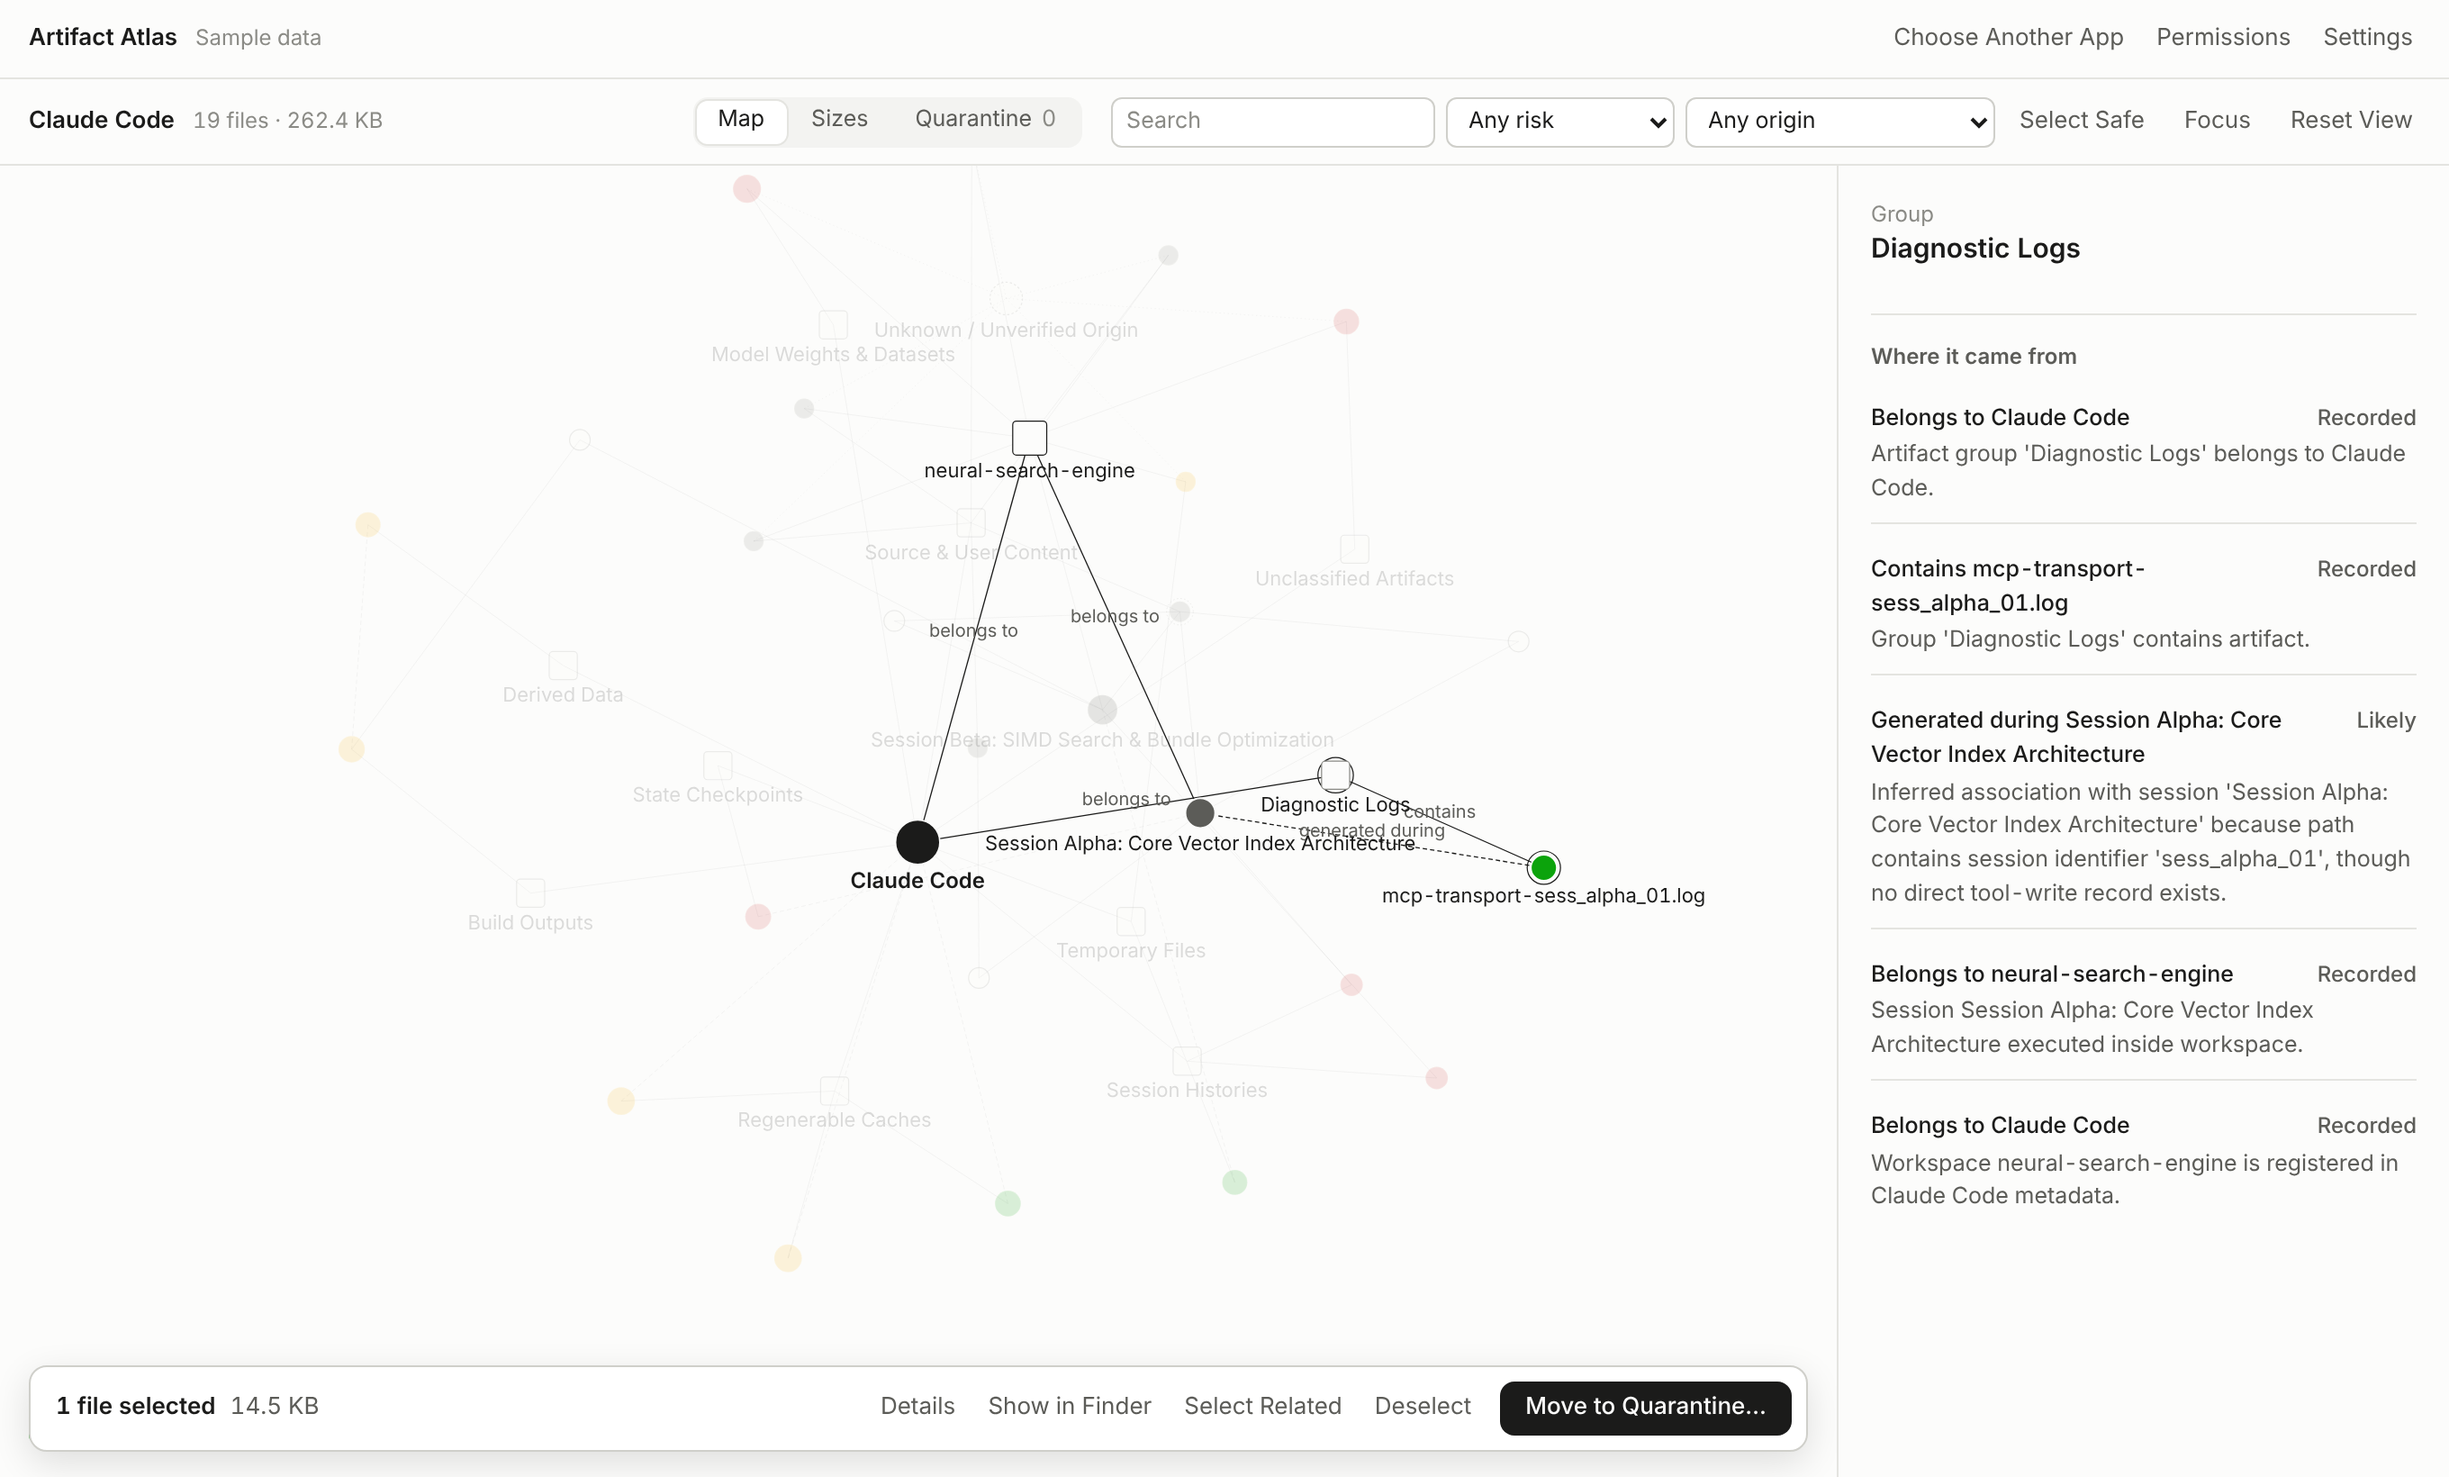
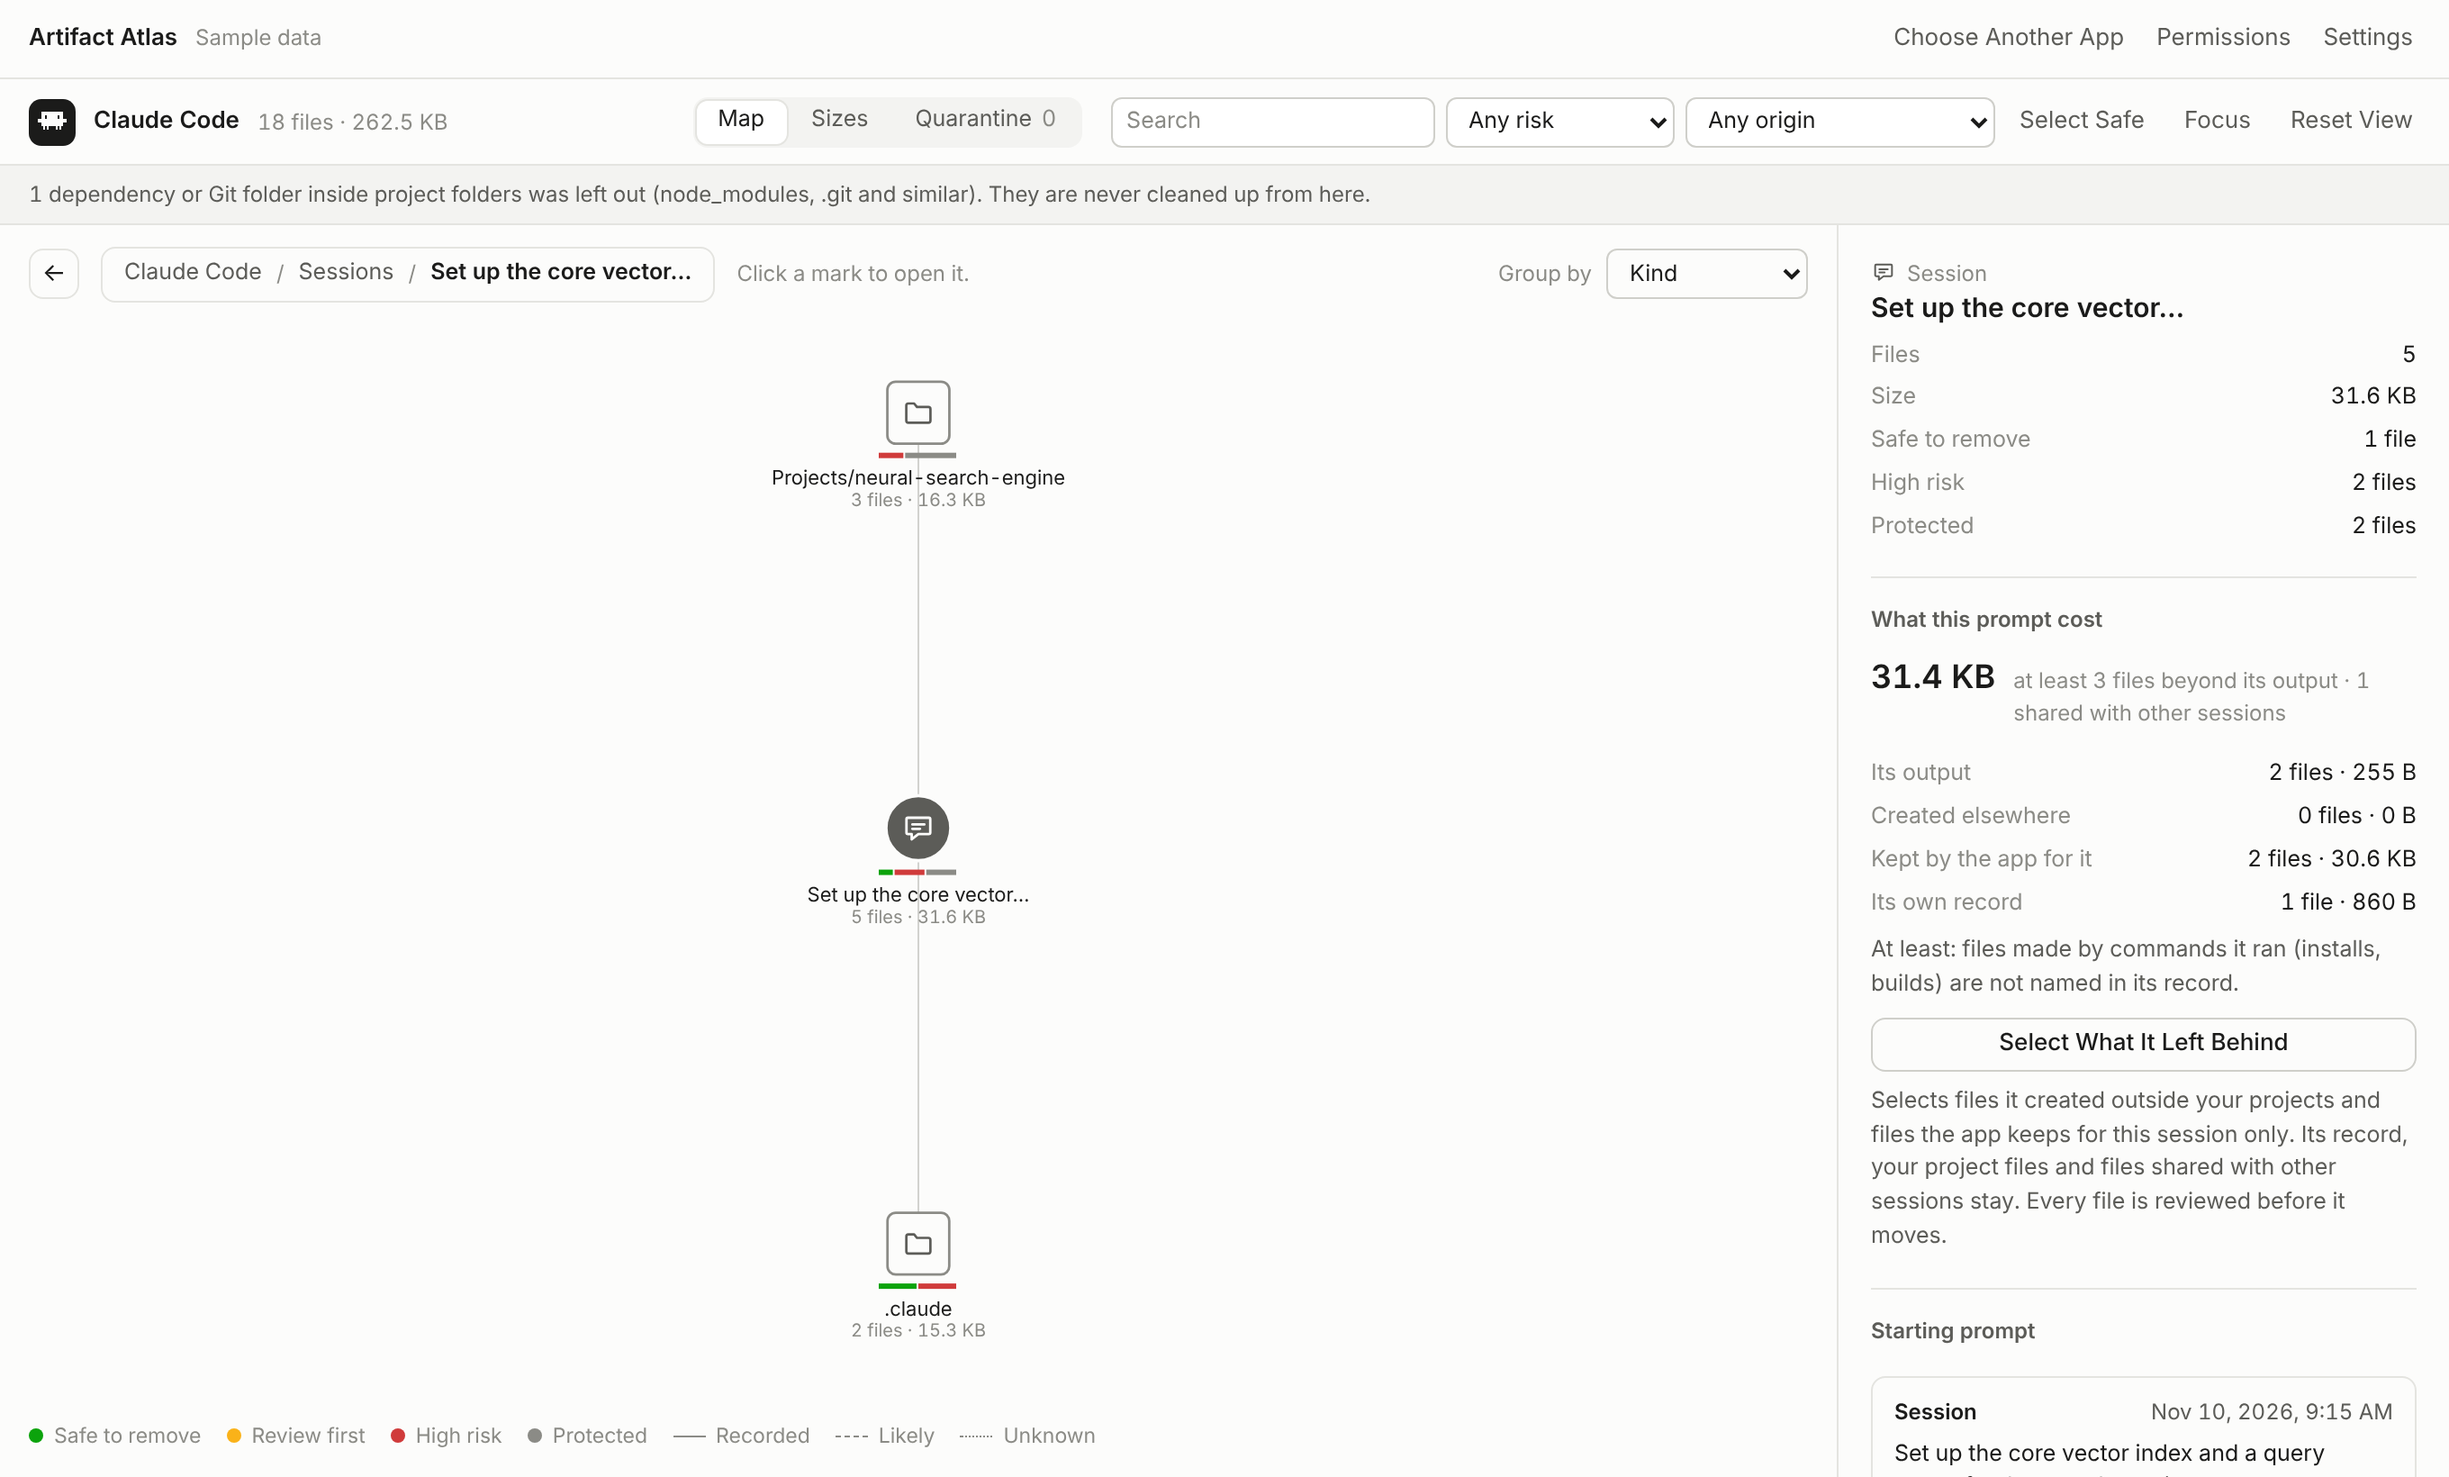
feat(site): the walkthrough shows a prompt's cost; current screenshot and share tags
- The walkthrough's sample sessions are named by their prompts, and it now opens a
  session, shows what that prompt cost (its output, files the app keeps for it, its record)
  and moves its leftovers to Quarantine, computed from its own sample data.
- The fallback screenshot showed an old version of the map; it now shows a session's cost.
- The title, description and lead mention prompts and their cost, with Open Graph tags
  for link previews.
- Protected now lists unrecorded project files, and supported apps mention Windows.

Claude-Session: https://claude.ai/code/session_012cVRGmjQw49FvXu1HBWPNP

diff --git a/site/demo.js b/site/demo.js
@@ -22,8 +22,10 @@
   // kind: app | workspace | session | group | unknown | file
   var nodes = [
     { id: 'app', kind: 'app', label: 'Claude Code', x: 430, y: 300 },
-    { id: 'sA', kind: 'session', label: 'Session Alpha', x: 596, y: 262 },
-    { id: 'sB', kind: 'session', label: 'Session Beta', x: 318, y: 176 },
+    { id: 'sA', kind: 'session', label: 'Set up the core vector…', x: 596, y: 262,
+      prompt: 'Set up the core vector index and a query router for the search service.' },
+    { id: 'sB', kind: 'session', label: 'Speed up vector search…', x: 318, y: 176,
+      prompt: 'Speed up vector search with SIMD and shrink the production bundle.' },
     { id: 'gLogs', kind: 'group', type: 'LOG', label: 'Diagnostic Logs', x: 708, y: 238 },
     { id: 'gCache', kind: 'group', type: 'REGENERABLE_CACHE', label: 'Regenerable Caches', x: 372, y: 446 },
     { id: 'gTmp', kind: 'group', type: 'TEMP_FILE', label: 'Temporary Files', x: 612, y: 404 },
@@ -69,6 +71,12 @@
 
   var byId = {};
   nodes.forEach(function (n) { byId[n.id] = n; });
+  // What a file is to the session it belongs to, as in the app: its output in the project,
+  // a file the app keeps for it, or its own record
+  var PART_OF_GROUP = { gSrc: 'output', gBuild: 'output', gHist: 'record' };
+  nodes.forEach(function (n) {
+    if (n.kind === 'file') n.part = PART_OF_GROUP[n.group] || 'kept';
+  });
   // A file has the artifact type of its group, except the stray log among the unclassified.
   nodes.forEach(function (n) {
     if (n.kind === 'file') n.type = n.id === 'f11' ? 'LOG' : byId[n.group].type;
@@ -267,7 +275,7 @@
   root.appendChild(bar);
 
   // The walkthrough is a real sequence, so its steps are numbered.
-  var STEPS = ['Drop an app', 'Scan', 'See the totals', 'Open a kind', 'Trace a file', 'Quarantine', 'Restore'];
+  var STEPS = ['Drop an app', 'Scan', 'See the totals', 'Open a prompt', 'See what it cost', 'Quarantine its leftovers', 'Restore'];
   var stepper = html('ol', 'demo-steps');
   var stepEls = STEPS.map(function (label) {
     var li = html('li', null, label);
@@ -619,9 +627,64 @@
     });
   }
 
+  // What a session cost beyond its output, and its leftovers: files that belong to it
+  // alone and are not its output, its record or protected.
+  function sessionFiles(sid) {
+    return files.filter(function (f) {
+      return !isQuarantined(f.id) && f.sessions.some(function (x) { return x[0] === sid; });
+    });
+  }
+  function leftoversOf(sid) {
+    return sessionFiles(sid).filter(function (f) {
+      return f.sessions.length === 1 && f.part === 'kept' && f.risk !== 'protected';
+    });
+  }
+
+  function renderSessionPanel(sn) {
+    var kind = html('div', 'demo-kind');
+    kind.appendChild(iconEl('session', 14));
+    kind.appendChild(document.createTextNode('Session'));
+    panel.appendChild(kind);
+    panel.appendChild(html('h3', 'demo-title', sn.label));
+
+    var mine = sessionFiles(sn.id);
+    var parts = { output: [], kept: [], record: [] };
+    mine.forEach(function (f) { parts[f.part].push(f); });
+    var cost = parts.kept.concat(parts.record);
+    var costBytes = cost.reduce(function (sum, f) { return sum + f.size; }, 0);
+
+    panel.appendChild(html('h4', 'demo-sub', 'What this prompt cost'));
+    var head = html('div', 'demo-total');
+    head.appendChild(html('strong', null, formatBytes(costBytes)));
+    head.appendChild(html('span', 'demo-muted', 'at least ' + cost.length + (cost.length === 1 ? ' file' : ' files') + ' beyond its output'));
+    panel.appendChild(head);
+    panel.appendChild(statRow(html('span'), 'Its output', countAndSize(parts.output)));
+    panel.appendChild(statRow(html('span'), 'Kept by the app for it', countAndSize(parts.kept)));
+    panel.appendChild(statRow(html('span'), 'Its own record', countAndSize(parts.record)));
+
+    var left = leftoversOf(sn.id);
+    var button = html('button', 'demo-btn', left.length
+      ? 'Move what it left behind to Quarantine (' + left.length + ')'
+      : 'Nothing left behind to move');
+    button.type = 'button';
+    button.id = 'demo-leftovers-button';
+    button.disabled = !left.length;
+    button.addEventListener('click', function () { quarantineMany(left.map(function (f) { return f.id; })); });
+    panel.appendChild(button);
+    panel.appendChild(html('p', 'demo-note', 'Never its output, its record, or files shared with another session.'));
+
+    panel.appendChild(html('h4', 'demo-sub', 'Starting prompt'));
+    panel.appendChild(html('p', 'demo-prompt', sn.prompt));
+  }
+
   function renderPanel() {
     panel.textContent = '';
     var sel = byId[state.selected];
+    var openSession = /^session:/.test(state.level) ? byId[state.level.slice(8)] : null;
+    if (!sel && openSession) {
+      renderSessionPanel(openSession);
+      return;
+    }
     if (!sel) {
       renderStats();
       return;
@@ -698,6 +761,16 @@
 
   function quarantine(id) {
     state.quarantined.push(id);
+    state.selected = null;
+    state.armed = null;
+    state.view = 'quarantine';
+    drawLevel(false);
+    render();
+    if (!tour.running) tabQuarantine.focus();
+  }
+
+  function quarantineMany(ids) {
+    ids.forEach(function (id) { if (!isQuarantined(id)) state.quarantined.push(id); });
     state.selected = null;
     state.armed = null;
     state.view = 'quarantine';
@@ -888,26 +961,26 @@
       showIntro(null);
       go('root');
     });
-    // 4. A kind is opened, as a click on its mark would.
+    // 4. The sessions, each named by the prompt that started it.
     later(8600, function () {
       setStep(3);
-      go('group:gLogs');
+      go('sessions');
     });
-    // 5. One of its files is traced back to its session.
-    later(10600, function () {
+    // 5. One session is opened: what it delivered, and what it cost beyond that.
+    later(10800, function () {
       setStep(4);
-      select('f1');
+      go('session:sA');
     });
-    // 6 and 7. The file goes to quarantine and comes back.
-    later(13400, function () {
+    // 6 and 7. Its leftovers go to quarantine, and one comes back.
+    later(14200, function () {
       setStep(5);
-      quarantine('f1');
+      quarantineMany(leftoversOf('sA').map(function (f) { return f.id; }));
     });
-    later(16000, function () {
+    later(17000, function () {
       setStep(6);
       restore('f1');
     });
-    later(18400, stopTour);
+    later(19600, stopTour);
 
   }
 

diff --git a/site/index.html b/site/index.html
@@ -3,12 +3,20 @@
 <head>
 <meta charset="utf-8" />
 <meta name="viewport" content="width=device-width, initial-scale=1" />
-<title>Artifact Atlas — AI Artifact Provenance &amp; Cleanup Explorer</title>
-<meta name="description" content="Local-first app for macOS and Windows that shows which AI coding session created each file on your disk, and cleans up safely through a recoverable quarantine." />
+<title>Artifact Atlas — What your AI prompts left on disk</title>
+<meta name="description" content="Local-first app for macOS and Windows that shows which AI session and prompt created each file on your disk, what each prompt cost in files and gigabytes, and cleans up safely through a recoverable quarantine." />
+<meta property="og:title" content="Artifact Atlas — What your AI prompts left on disk" />
+<meta property="og:description" content="See which AI session and prompt created each file, what each prompt cost, and remove the leftovers safely. Runs offline on macOS and Windows." />
+<meta property="og:type" content="website" />
+<meta property="og:url" content="https://yazicmert.github.io/basket/" />
+<meta property="og:image" content="https://yazicmert.github.io/basket/screenshot.png" />
+<meta property="og:image:width" content="2720" />
+<meta property="og:image:height" content="1640" />
+<meta name="twitter:card" content="summary_large_image" />
 <link rel="icon" href="favicon.svg" type="image/svg+xml" />
 <link rel="icon" href="favicon-32.png" sizes="32x32" type="image/png" />
 <link rel="apple-touch-icon" href="apple-touch-icon.png" />
-<link rel="stylesheet" href="style.css?v=9" />
+<link rel="stylesheet" href="style.css?v=10" />
 </head>
 <body>
 <div class="topbar">
@@ -36,7 +44,8 @@
     <h1>Know which AI session made a file before you delete it.</h1>
     <p class="lead">
       Artifact Atlas maps the files that Claude Code, Cursor, Codex CLI and other apps leave on your Mac or PC
-      to the sessions and tool calls that produced them. Cleanup moves files into a quarantine you can
+      to the sessions and tool calls that produced them, names each session by the prompt that started it,
+      and shows what that prompt cost beyond its output. Cleanup moves files into a quarantine you can
       restore from. Nothing is deleted permanently.
     </p>
     <div class="actions">
@@ -60,7 +69,7 @@
             <div class="window-bar" aria-hidden="true"><i></i><i></i><i></i><span>Artifact Atlas</span></div>
             <div id="demo" class="demo">
               <img src="screenshot.png" width="1360" height="820"
-                   alt="Artifact Atlas map linking an AI application, its sessions and tool calls to the files they created, colored by cleanup risk." />
+                   alt="Artifact Atlas showing one AI session, named by its starting prompt, with what that prompt cost: its output, the files the app keeps for it and its record." />
             </div>
           </div>
           <div class="mac-dock" id="mac-dock" aria-hidden="true"></div>
@@ -119,7 +128,7 @@
         <div class="row">
           <span class="sample" aria-hidden="true"><i class="dot protected"></i></span>
           <dt>Protected</dt>
-          <dd>Source code, Git repositories, credentials and configuration files.</dd>
+          <dd>Source code, Git repositories, credentials, configuration files, and files in your project folders that no session recorded.</dd>
         </div>
       </dl>
     </div>
@@ -156,9 +165,9 @@
   </section>
 
   <section class="spec" id="supported">
-    <h2>Supported apps <small>And any other .app</small></h2>
+    <h2>Supported apps <small>And any other app</small></h2>
     <div class="spec-body">
-      <p>Claude Code, Cursor and Codex (in the ChatGPT app or the CLI) get session-level tracing: each file is linked to the session and tool call that wrote it. The other apps listed here are found through their known data folders, and anything else you drop is located by its bundle identifier and name.</p>
+      <p>Claude Code, Cursor and Codex (in the ChatGPT app or the CLI) get session-level tracing: each file is linked to the session and tool call that wrote it. The other apps listed here are found through their known data folders, and any other app you choose, on macOS or Windows, is located by its identifier and name.</p>
       <div class="marquee">
         <div class="marquee-track">
           <ul>
@@ -323,7 +332,7 @@ npm test</pre>
     </nav>
   </div>
 </footer>
-<script src="icons.js?v=9" defer></script>
-<script src="demo.js?v=9" defer></script>
+<script src="icons.js?v=10" defer></script>
+<script src="demo.js?v=10" defer></script>
 </body>
 </html>

diff --git a/site/style.css b/site/style.css
@@ -1790,6 +1790,7 @@ footer {
 .demo-total strong {
   font-size: 22px;
   letter-spacing: -0.01em;
+  white-space: nowrap;
 }
 
 .demo-share {
@@ -2110,4 +2111,18 @@ h3.platform span {
   margin-left: 8px;
   font-weight: 400;
   color: var(--ink-3);
+}
+
+/* Walkthrough: a session's starting prompt */
+.demo-prompt {
+  margin: 4px 0 0;
+  padding: 8px 10px;
+  border: 1px solid var(--line);
+  border-radius: 6px;
+  font-size: 12.5px;
+  line-height: 1.45;
+}
+#demo-leftovers-button {
+  margin-top: 10px;
+  width: 100%;
 }
